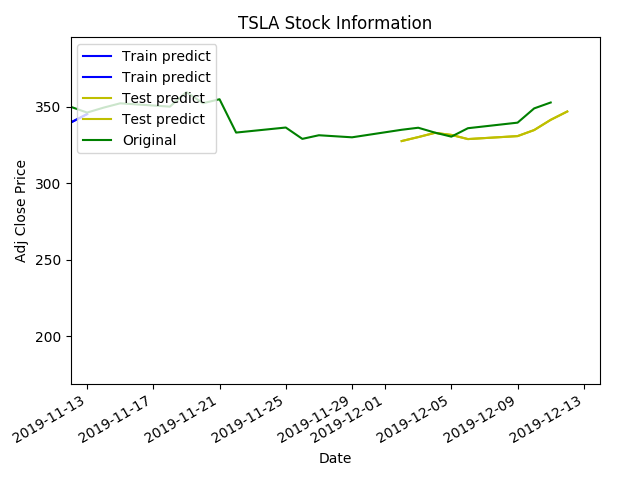
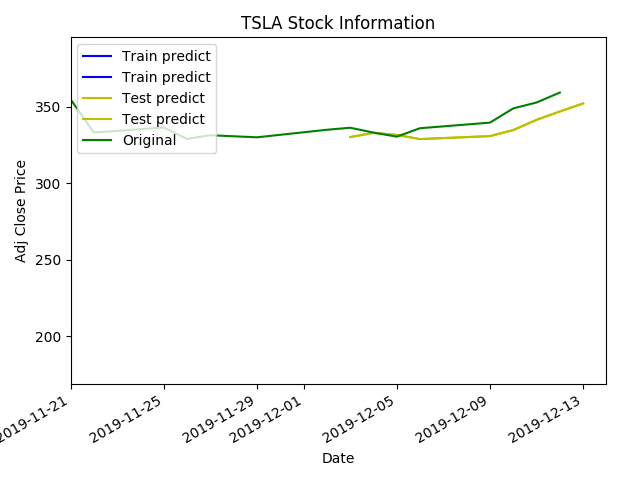
Fixed graphing

diff --git a/server.py b/server.py
@@ -19,7 +19,7 @@ from data_processor import graph_data
 serverS = socket.socket(socket.AF_INET, socket.SOCK_STREAM)
 
 # ipv4 address of server
-host = '10.18.207.18'
+host = '192.168.210.170'
 
 port = 9998
 
@@ -82,9 +82,8 @@ def gather_data(tkr):
     end = dt.datetime(year, month, day)
 
     df = web.DataReader(tkr, 'yahoo', start, end)
-    for x in range(0, 2):
-
-        tempEnd = str(end + dt.timedelta(days = x))
+    for x in range(1, 3):
+        tempEnd = str(end + dt.timedelta(days=x))
         tempEnd = tempEnd.split(" ")[0]
         df = df.append(pd.Series(name=tempEnd))
     df = df.fillna('nan')
@@ -113,7 +112,7 @@ def make_g(tkr):
 
     X_train, Y_train, X_test, Y_test = generate_sets(train_scaled, test_scaled)
 
-    model = build_model(X_train, Y_train)
+    model = tf.keras.models.load_model("model.h5")
 
     model.save('model.h5')
     train_predict = model.predict(X_train)
@@ -148,16 +147,16 @@ def make_p(tkr):
     train_scaled, test_scaled = data_scaler('fit', train, test)
     X_train, Y_train, X_test, Y_test = generate_sets(train_scaled, test_scaled)
 
-    model = tf.keras.models.load_model("model.h5")
+    model = build_model(X_train, Y_train)
 
     train_predict = model.predict(X_train)
 
     test_predict = model.predict(X_test)
     prediction = graph_format(dataset, train_predict, test_predict)[1]
     print(prediction)
-    print(prediction[-1][0])
+    print(prediction[-2][0])
 
-    prediction = prediction[-1][0]
+    prediction = prediction[-2][0]
     prediction = round(prediction, 2)
     return f'${prediction}'
 

diff --git a/mainGUI.py b/mainGUI.py
@@ -30,7 +30,7 @@ class MainGUI:
             void
          """
         # sets host and port of server
-        self.host = '10.18.207.18'
+        self.host = '192.168.210.170'
         self.port = 9998
 
         # sets up empty var for ticker

diff --git a/data_processor.py b/data_processor.py
@@ -231,4 +231,3 @@ def graph_data(df: pd.DataFrame, train_predict_plot: np.ndarray,
     plt.tight_layout()
     plt.gcf().autofmt_xdate()
     plt.savefig('imgFile.png')
-    plt.show()
